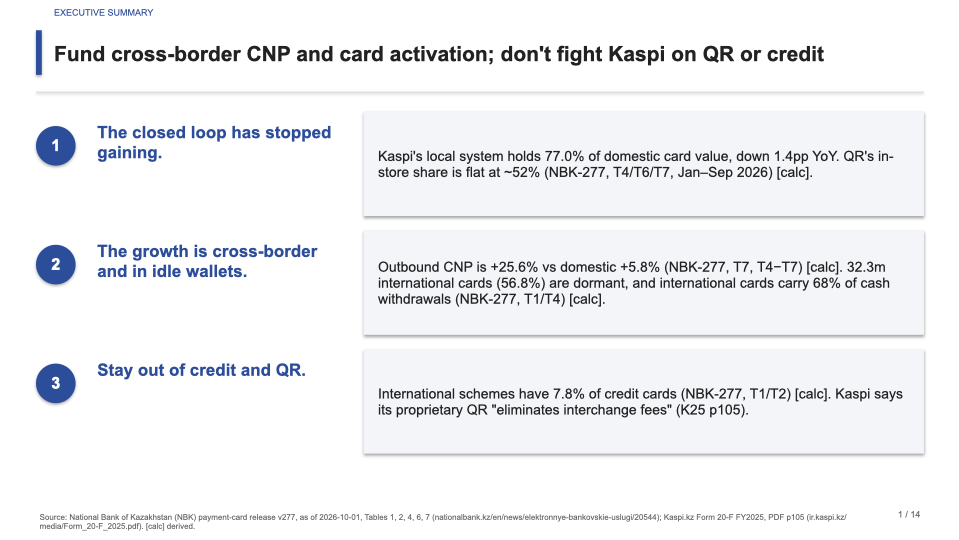
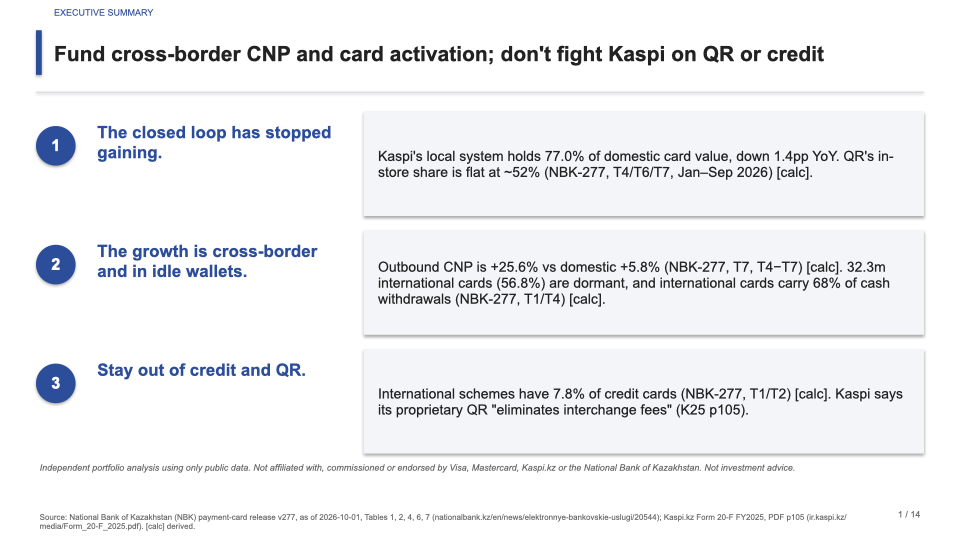
docs: add independence disclaimer, neutral limitations doc, deck metadata

Changed region(s): [[0.0302, 0.8593, 0.8165, 0.8889]]

diff --git a/src/deck/build_deck.py b/src/deck/build_deck.py
@@ -28,6 +28,10 @@ LIGHTBG = RGBColor(0xF3, 0xF5, 0xF8)
 FONT = "Arial"
 W, H = Inches(13.333), Inches(7.5)
 MX = Inches(0.5)
+DISCLAIMER = ("Independent portfolio analysis using only public data. Not affiliated with, commissioned or endorsed by "
+              "Visa, Mastercard, Kaspi.kz or the National Bank of Kazakhstan. Not investment advice.")
+DOC_TITLE = "Kazakhstan payments: where should an international card network invest in 2027-2029?"
+DOC_AUTHOR = "Talgat20056"
 
 
 # ---------------- parse storyline ----------------
@@ -169,6 +173,9 @@ def exec_slide(prs, s, page, total):
         textbox(slide, MX + Inches(4.7), y + Inches(0.08), W - 2 * MX - Inches(4.85), rowh - Inches(0.3), [rest], size,
                 bullet=False, anchor=MSO_ANCHOR.MIDDLE)
         y += rowh + Inches(0.05)
+    tb = textbox(slide, MX, Inches(6.4), W - 2 * MX, Inches(0.3), [DISCLAIMER], 9, color=GREY, bullet=False)
+    for r in tb.text_frame.paragraphs[0].runs:
+        r.font.italic = True
     return slide
 
 
@@ -209,6 +216,9 @@ def main():
         assert len(s["title"].split()) <= 15, (s["num"], s["title"])
     prs = Presentation()
     prs.slide_width, prs.slide_height = W, H
+    cp = prs.core_properties
+    cp.title, cp.author, cp.last_modified_by = DOC_TITLE, DOC_AUTHOR, DOC_AUTHOR
+    cp.subject, cp.keywords, cp.comments = "Independent portfolio analysis (public data)", "", DISCLAIMER
     total = len(slides) + len(backups)
     for i, s in enumerate(slides, start=1):
         if s["table"]:

diff --git a/outputs/limitations_and_challenges.md b/outputs/limitations_and_challenges.md
@@ -1,53 +1,53 @@
-# Interview defence — the 10 hardest questions
+# Limitations and challenges — the 10 hardest questions about this analysis
 
-Format for each: **Q** → short answer → **the weakest point, which I must not overclaim**. Source keys are listed in `outputs/findings.md`.
+Format for each: **Q** → short answer → **main limitation** (what the analysis cannot claim). Source keys are listed in `outputs/findings.md`.
 
 ---
 
 **1. "You call the local system 'Kaspi'. How do you know the 77% is Kaspi?"**
 NBK's release narrative says cards are issued for international systems "as well as payment cards of the local system Kaspi.kz" (NBK-277 text). The tables only say "local systems". Kaspi's own disclosures are consistent with this. Kaspi QR+card TPV of ₸30.5trn [calc, K25 p92] equals 82% of NBK POS+QR value.
-*Weakest point:* I cannot prove that 100% of "local systems" is Kaspi, or that every Kaspi Gold transaction is booked as local rather than Visa. Kaspi recognises revenue as an agent "when using third-party payments platforms or networks (e.g., Visa/Mastercard)" (K25 p181), so some Kaspi volume does touch networks. Say "the local system (Kaspi.kz per NBK)", never "Kaspi's 77%".
+*Limitation:* I cannot prove that 100% of "local systems" is Kaspi, or that every Kaspi Gold transaction is booked as local rather than Visa. Kaspi recognises revenue as an agent "when using third-party payments platforms or networks (e.g., Visa/Mastercard)" (K25 p181), so some Kaspi volume does touch networks. Say "the local system (Kaspi.kz per NBK)", never "Kaspi's 77%".
 
 **2. "What is a 'used' card? Isn't dormancy just people holding several cards, or virtual cards?"**
 NBK does not publish the definition. There are 85.4m cards for a population of 20.6m [calc; NBK-277 T1, STAT], about 4 per person, so a lot of dormancy is structural (secondary, virtual, or replacement cards).
-*Weakest point:* the 32.3m dormant cards are a ceiling, not an addressable market. That is why the sizing uses only +2/+5/+10pp of activation and an α of 15–40% of average spend. Never say "₸X trillion locked in dormant cards".
+*Limitation:* the 32.3m dormant cards are a ceiling, not an addressable market. That is why the sizing uses only +2/+5/+10pp of activation and an α of 15–40% of average spend. Never say "₸X trillion locked in dormant cards".
 
 **3. "H3 'killed' on 12–24 months of data? Couldn't the share drop be reclassification or a pricing change?"**
 Possibly. Kaspi increased "monetized P2P transactions" revenue (K25 p104), which may have pushed some free P2P off the local rail. A bank re-badging its card base would also move the split. Two independent signals point the same way, though: local share fell (−1.8pp FY, −1.4pp YoY 9M) and QR's in-store share plateaued (~52%).
-*Weakest point:* this is a short series. Frame it as "the closed loop has stopped gaining", not "networks are winning back share".
+*Limitation:* this is a short series. Frame it as "the closed loop has stopped gaining", not "networks are winning back share".
 
 **4. "Isn't cross-border growth just macro (travel, tenge, Chinese marketplaces)? What does a network's investment change?"**
 Yes. Demand growth (+25.6% CNP abroad, NBK-277 T7) is market-driven, and I make no causal claim that networks created it. Network investment changes *capture*: authorisation rates, tokenised credentials, fraud and 3-DS friction, and pricing transparency.
-*Weakest point:* I have no authorisation-rate or fraud data, so the "capture" upside is unquantified. KPI #1 tracks market growth; a network would add its own approval-rate KPI internally.
+*Limitation:* I have no authorisation-rate or fraud data, so the "capture" upside is unquantified. KPI #1 tracks market growth; a network would add its own approval-rate KPI internally.
 
 **5. "How will Kaspi respond?"**
 It is already moving: AliPay+ integration for inbound and outbound wallets (K25 p53, p58), QR interoperability with 7 local banks and 1 Kyrgyz bank (K25 p58), Kaspi Alaqan pay-by-palm (launched Dec 2025, K25 p53), and continued QR migration to avoid interchange (K25 p105). Its most dangerous counter is an outbound wallet via AliPay+ that substitutes for cards at foreign merchants.
-*Weakest point:* recommendation #1 assumes card credentials stay the default for foreign e-commerce. If AliPay+-style wallets reach KZ consumers at scale, the "structural" niche narrows. I cannot size that risk from public data.
+*Limitation:* recommendation #1 assumes card credentials stay the default for foreign e-commerce. If AliPay+-style wallets reach KZ consumers at scale, the "structural" niche narrows. I cannot size that risk from public data.
 
 **6. "What role does the regulator play?"**
 NBK sets payment-system rules and publishes this data. Kaspi Bank has been on the Register of Significant Payment Services Providers since 2018. One qualifying threshold is processing ≥ 25% of card payment volume (K25 p66), which brings extra NBK reporting and risk requirements. Interoperability (QR across banks) and any interchange rules are NBK levers that could move the domestic battlefield either way.
-*Weakest point:* I did not analyse NBK policy documents (QR standards, interchange, data localisation). Recommendation #3's "engage NBK" is a direction, not a forecast of what NBK will do.
+*Limitation:* I did not analyse NBK policy documents (QR standards, interchange, data localisation). Recommendation #3's "engage NBK" is a direction, not a forecast of what NBK will do.
 
 **7. "You talk volume. How does this become network revenue?"**
 Public data gives value and counts, not fees. Network revenue per tenge differs by flow: cross-border carries extra fees versus domestic, and cash withdrawals earn little. So the direction of the recommendations is robust, but I do not translate into revenue.
-*Weakest point:* no fee or yield data. Never quote a revenue number. If pressed, say I would use the client's own yield curve by flow type.
+*Limitation:* no fee or yield data. No revenue figure is given; with client data, the client's own yield curve by flow type would convert volume into revenue.
 
 **8. "Your 66% bypass number depends on s, which you made up."**
 Correct, which is why it is labelled [estimate] with a range of 49–76%. The conclusion that "about half or more of in-store value bypasses networks" holds across the whole range. The *trend* conclusion does not use this estimate; it rests on the [calc] local share (T4/T7) and the QR share (T6).
-*Weakest point:* the estimate's flat trend is partly by construction (s is held constant). Never cite it as evidence of stability. The anchors for s are weak: local cards are 42% of used cards (T1), and Kaspi says other cards' POS volumes are "significantly lower" (K25 p91).
+*Limitation:* the estimate's flat trend is partly by construction (s is held constant). Never cite it as evidence of stability. The anchors for s are weak: local cards are 42% of used cards (T1), and Kaspi says other cards' POS volumes are "significantly lower" (K25 p91).
 
 **9. "Inbound fell 5%. Is that real?"**
 It is a residual: T6 − (T4 − T7). Each table is revised by about 0.1% between vintages, and T5 and T6 differ by up to ~0.3% despite the same stated scope (`docs/validation_nbk.md`). On a ₸140trn base that noise (~₸0.2–0.4trn) is the same size as the inbound change.
-*Weakest point:* inbound "flat" is defensible; inbound "declining" is not. No scheme split exists.
+*Limitation:* inbound "flat" is defensible; inbound "declining" is not. No scheme split exists.
 
 **10. "Why dismiss credit? BNPL and credit are the biggest profit pools in Kazakhstan."**
 That is exactly why: the profit pool sits in the closed loop. Of 13.0m credit cards, 92% are on the local system [calc; NBK-277 T1/T2], and Kaspi's BNPL is native to its super app. A network credit play would need a non-Kaspi issuer with underwriting scale to take share in Kaspi's strongest product.
-*Weakest point:* the credit-card *count* is not credit *volume*. NBK does not split transaction value by card type × scheme. Also, local credit is a residual (T2 credit − T1 international credit), so it assumes T1 and T2 classify card types the same way.
+*Limitation:* the credit-card *count* is not credit *volume*. NBK does not split transaction value by card type × scheme. Also, local credit is a residual (T2 credit − T1 international credit), so it assumes T1 and T2 classify card types the same way.
 
 ---
 
-## Things I must not say
-- "Kaspi has 77% share." Say instead: the local system (named by NBK as Kaspi.kz) handles 77% of *KZ-card domestic cashless value incl. P2P*.
+## Claims this analysis does not support
+- "Kaspi has 77% share." Supported version: the local system (named by NBK as Kaspi.kz) handles 77% of *KZ-card domestic cashless value incl. P2P*.
 - "E-commerce in Kazakhstan is ₸X." Not separable in NBK data; "internet & mobile" includes P2P.
 - "Networks are winning back share." The data supports only "the closed loop has stopped gaining".
 - Any revenue or fee figure.

diff --git a/README.md b/README.md
@@ -2,6 +2,8 @@
 
 A hypothesis-driven analysis of Kazakhstan's card market, built entirely from public data (National Bank of Kazakhstan monthly payment-card releases, Kaspi.kz Form 20-F filings, and stat.gov.kz population figures). Every number carries a source URL, a table reference and an as-of date. Derived numbers are tagged **[calc]** and assumption-dependent numbers **[estimate]**.
 
+> **Disclaimer.** Independent portfolio analysis using only public data. Not affiliated with, commissioned or endorsed by Visa, Mastercard, Kaspi.kz or the National Bank of Kazakhstan. Not investment advice. Built with AI-assisted coding (Claude Code).
+
 ## Question
 > Where should an international card network (Visa / Mastercard) invest in Kazakhstan in 2027–2029 to grow, given Kaspi.kz's closed-loop dominance?
 
@@ -16,7 +18,7 @@ A hypothesis-driven analysis of Kazakhstan's card market, built entirely from pu
 | H2 Defensible niches (cross-border, CNP, credit) | Partially confirmed: cross-border yes, credit no |
 | H3 Kaspi captures a *growing* share of domestic value | Killed as stated (level confirmed, growth not) |
 
-Full write-up: [`outputs/findings.md`](outputs/findings.md) · Deck: [`outputs/kz_payments_strategy.pptx`](outputs/kz_payments_strategy.pptx) (rendered slides in `outputs/render/`) · Storyline: [`outputs/storyline.md`](outputs/storyline.md) · Interview defence: [`outputs/interview_defense.md`](outputs/interview_defense.md)
+Full write-up: [`outputs/findings.md`](outputs/findings.md) · Deck: [`outputs/kz_payments_strategy.pptx`](outputs/kz_payments_strategy.pptx) (rendered slides in `outputs/render/`) · Storyline: [`outputs/storyline.md`](outputs/storyline.md) · Limitations & challenges: [`outputs/limitations_and_challenges.md`](outputs/limitations_and_challenges.md)
 
 ## Data & provenance
 | Source | What | Coverage | Clean file |

diff --git a/outputs/findings.md b/outputs/findings.md
@@ -1,5 +1,7 @@
 # Findings — Kazakhstan payments: where should an international network invest 2027–2029?
 
+> **Disclaimer.** Independent portfolio analysis using only public data. Not affiliated with, commissioned or endorsed by Visa, Mastercard, Kaspi.kz or the National Bank of Kazakhstan. Not investment advice.
+
 **Answer first.** Stop treating Kaspi's closed loop as a melting iceberg. Its share is very large but **no longer growing**, so the domestic card base is stable. Put incremental money into **(1) cross-border card-not-present**, which is growing about 4x faster than domestic, and **(2) getting the dormant, cash-heavy international card base to spend**. Do not fund a head-on fight in **credit** or **QR**: the closed loop owns credit (92% of credit cards), and QR is the instrument Kaspi uses to cut out interchange.
 
 Labels: **[data]** = as published; **[calc]** = arithmetic on published data (formula shown); **[estimate]** = depends on a stated assumption. Every number is regenerated by `src/analysis/*.py` into `outputs/metrics.csv`.

diff --git a/docs/progress.md b/docs/progress.md
@@ -27,3 +27,7 @@
 ## Phase 6 — Repo (done 2026-11-18)
 - `git init` (branch main, repo-local author config), `.gitignore`, consulting-structure `README.md`, `requirements.txt`; single commit `feat: KZ payments network strategy analysis`. Not pushed.
 - Resume: all phases complete. To refresh with a new NBK release: rerun the 'How to reproduce' block in README.
+
+## Post-review clean-up (2026-11-18)
+- `outputs/interview_defense.md` renamed to `outputs/limitations_and_challenges.md` (neutral wording).
+- Added disclaimer (independent, public data, not affiliated, not investment advice) to README, findings, storyline and deck slide 1; deck file metadata set (author Talgat20056).

diff --git a/outputs/storyline.md b/outputs/storyline.md
@@ -7,6 +7,8 @@ Pyramid: **Answer (slide 1)** → three supporting arguments, each a block of sl
 
 These lead into the **recommendations (slide 10)**.
 
+> **Disclaimer.** Independent portfolio analysis using only public data. Not affiliated with, commissioned or endorsed by Visa, Mastercard, Kaspi.kz or the National Bank of Kazakhstan. Not investment advice. (Shown on slide 1.)
+
 Source keys (full URL · table · as-of) are listed in `outputs/findings.md`. NBK-277 = release as of 2026-10-01; NBK-268 = as of 2026-01-01 (FY2024–25); K25 = Kaspi 20-F FY2025. [calc] = derived; [estimate] = assumption-dependent.
 
 ---
